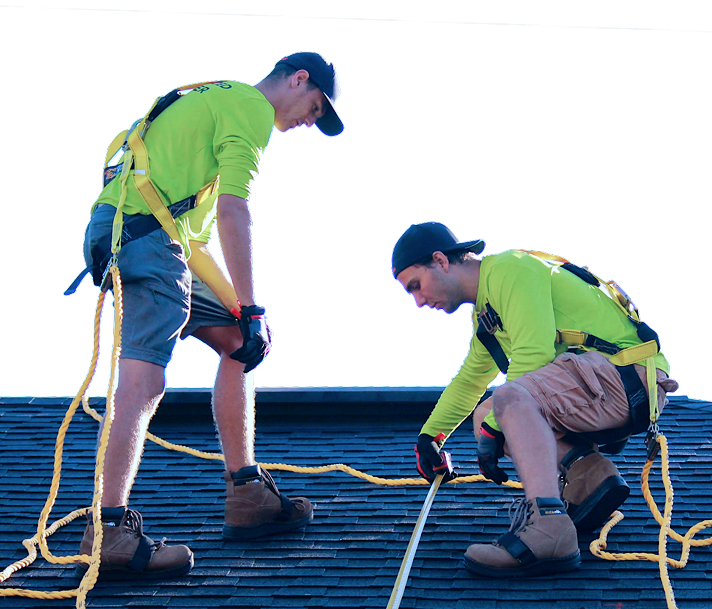
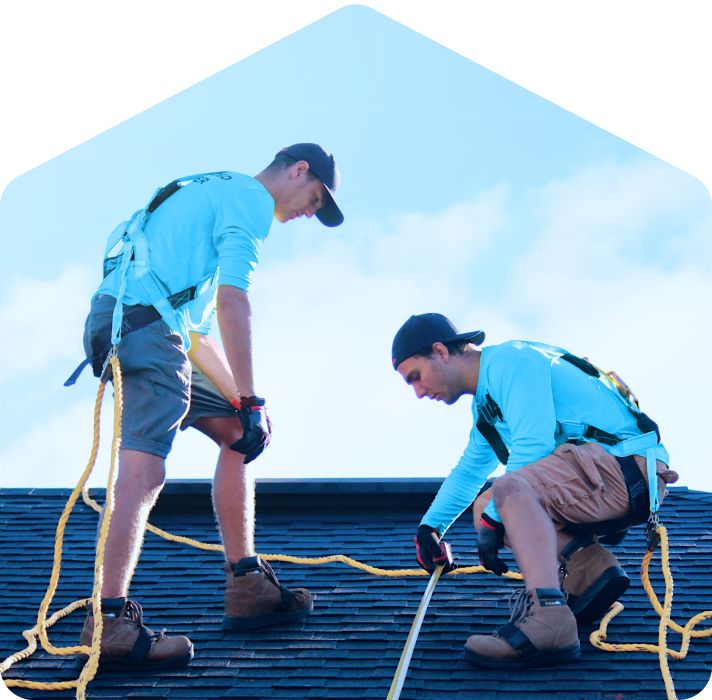
Done section 2

diff --git a/src/sections/section2.html b/src/sections/section2.html
@@ -9,20 +9,26 @@
                 </span>
                 <br>
                 <br>
-                <div class="feature">
+                <div class="feature-row">
+                    <div class="feature">
+                        <span class="detail"><img src="../assets/icon/Ic_24-Check.svg" class="icon">Repair and Installation</span>
+                        <span class="detail"><img src="../assets/icon/Ic_24-Check.svg" class="icon">Maintenance</span>
+                        <span class="detail"><img src="../assets/icon/Ic_24-Check.svg" class="icon">Home Security Services</span>
+                    </div>
                     
-                    <span class="detail"><img src="../assets/icon/Ic_24-Check.svg" class="icon">Repair and Installation</span>
-                    <span class="detail"><img src="../assets/icon/Ic_24-Check.svg" class="icon">Maintenance</span>
-                    <span class="detail"><img src="../assets/icon/Ic_24-Check.svg" class="icon">Home Security Services</span>
+                    <div class="feature">
+                        <span class="detail"><img src="../assets/icon/Ic_24-Check.svg" class="icon">Plumbing</span>
+                        <span class="detail"><img src="../assets/icon/Ic_24-Check.svg" class="icon">Budget-friendly</span>
+                        <span class="detail"><img src="../assets/icon/Ic_24-Check.svg" class="icon">Eco-friendly solutions</span>
+                    </div>
                 </div>
                 
-                <div class="feature">
-                    
-                    <span class="detail"><img src="../assets/icon/Ic_24-Check.svg" class="icon">Repair and Installation</span>
-                    <span class="detail"><img src="../assets/icon/Ic_24-Check.svg" class="icon">Maintenance</span>
-                    <span class="detail"><img src="../assets/icon/Ic_24-Check.svg" class="icon">Home Security Services</span>
-                </div>
+                <br>
+                <br>
+                <div class="box">We already 24 hours fast services to help you.<br> you can contace us at <span class="contact">(888)617-5894</span></div>
+
             </div>
+            <img src="../assets/img/worker.png" class="banner__image">
         </div>
     </div>
 </section>

diff --git a/src/stylesheets/layout/_banner.scss b/src/stylesheets/layout/_banner.scss
@@ -3,8 +3,9 @@
     padding : 30px 0;
     background: $white;
     position: relative;
-    overflow: hidden;
+    overflow: visible;
     height: 1000px;
+    gap: 60px;
     &::before{
         content: '';
         position: absolute;
@@ -39,9 +40,16 @@
             color: rgb(163, 151, 151);
             
         }
+        .feature-row{
+            display: flex;
+            gap: 40px;
+            // margin-bottom: 20px;
+        }
         .feature{
-            display: inline-block;
-            margin-right: 30px;
+            display: flex;
+            flex-direction: column;
+            gap: 10px;
+            min-width: 280px;          
             .detail{
                 display: flex;
                 color: $primary-color;
@@ -50,7 +58,28 @@
             .icon{
                 margin-right: 10px;
             }
+            
         }
+        .box{
+            background-color: rgb(66, 184, 243);
+            height: 80px;
+            width: 450px;
+            border-radius: 20px;
+            font-size : 18px;
+            padding: 13px 40px;
+            .contact{
+                display: inline-block;
+                border-bottom: 2px solid $white;
+                margin-bottom: -2px ;/* tạo gạch chân */    
+                font-size: 20px;
+                font-weight: 500;
+            }
+        }
+        
+    }
+    &__image{
+       display: inline-block;
+       transform: translateY(200px);
     }
 }
 
